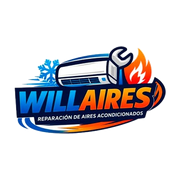
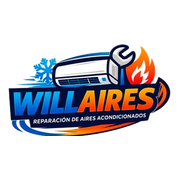
Ícono WillAires para el celular: fondo blanco, versión maskable y manifiesto con id
Claude-Session: https://claude.ai/code/session_012NKSgLvB3TYHk2Ddad6Anc

Changed region(s): [[0.0278, 0.2222, 0.9722, 0.7778]]

diff --git a/templates/login.html b/templates/login.html
@@ -5,7 +5,7 @@
   <meta name="viewport" content="width=device-width, initial-scale=1">
   <title>Ingresar · {{ NOMBRE_NEGOCIO }}</title>
   <meta name="theme-color" content="#0a1a3f">
-  <link rel="apple-touch-icon" href="{{ url_for('static', filename='brand/apple-touch-icon.png') }}">
+  <link rel="apple-touch-icon" href="{{ url_for('static', filename='brand/wa-apple-touch-icon.png') }}">
   <link rel="manifest" href="{{ url_for('manifest') }}">
   <link href="https://fonts.googleapis.com/css2?family=Nunito:wght@700;800&family=Nunito+Sans:wght@400;600;700;800&display=swap" rel="stylesheet">
   <link rel="stylesheet" href="{{ url_for('static', filename='style.css', v=STATIC_V) }}">

diff --git a/templates/base.html b/templates/base.html
@@ -9,7 +9,7 @@
   <link href="https://fonts.googleapis.com/css2?family=Nunito:wght@700;800&family=Nunito+Sans:wght@400;600;700;800&display=swap" rel="stylesheet">
   <link rel="stylesheet" href="{{ url_for('static', filename='style.css', v=STATIC_V) }}">
   <link rel="icon" href="{{ url_for('static', filename='favicon.png') }}">
-  <link rel="apple-touch-icon" href="{{ url_for('static', filename='brand/apple-touch-icon.png') }}">
+  <link rel="apple-touch-icon" href="{{ url_for('static', filename='brand/wa-apple-touch-icon.png') }}">
   <link rel="manifest" href="{{ url_for('manifest') }}">
   <style>
     .sidebar { overflow-y: auto; }

diff --git a/app.py b/app.py
@@ -2369,10 +2369,13 @@ def salud():
 def manifest():
     """Permite instalar la app en el celular (ícono en la pantalla de inicio)."""
     nombre = negocio_cache()["nombre"]
-    return jsonify(name=nombre, short_name=nombre[:12], start_url="/", display="standalone",
-                   background_color="#f3f6fb", theme_color="#0A1A3F",
-                   icons=[dict(src=url_for("static", filename="brand/icon-192.png"), sizes="192x192", type="image/png"),
-                          dict(src=url_for("static", filename="brand/icon-512.png"), sizes="512x512", type="image/png")])
+    ico = lambda f, tam, uso: dict(src=url_for("static", filename="brand/" + f), sizes=tam, type="image/png", purpose=uso)
+    r = jsonify(id="/", name=nombre, short_name=nombre[:12], start_url="/", scope="/", display="standalone",
+                background_color="#ffffff", theme_color="#0A1A3F",
+                icons=[ico("wa-icon-192.png", "192x192", "any"), ico("wa-icon-512.png", "512x512", "any"),
+                       ico("wa-maskable-192.png", "192x192", "maskable"), ico("wa-maskable-512.png", "512x512", "maskable")])
+    r.headers["Cache-Control"] = "no-cache"
+    return r
 
 
 @app.route("/logo.jpg")
